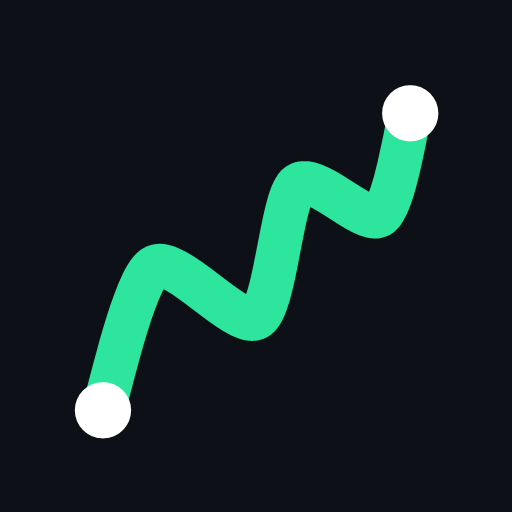
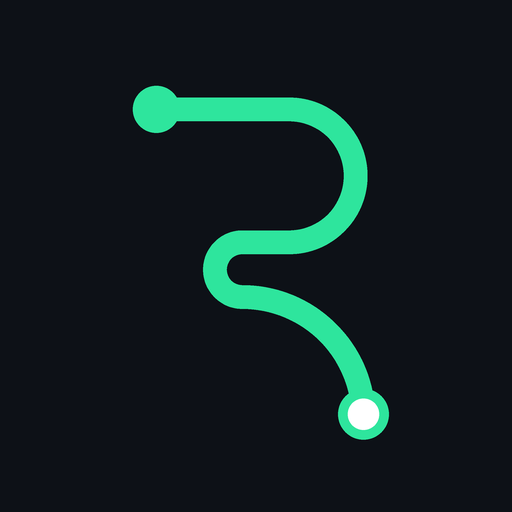
Splash: the R draws centre stage, then becomes the R in Runpath
The mark and the letter are now one element - a zoom is what makes it a mark,
and dropping the zoom makes it a letter. The home-screen icon is generated from
the same geometry.

Changed region(s): [[0.125, 0.1562, 0.875, 0.875]]

diff --git a/style.css b/style.css
@@ -861,32 +861,71 @@ html, body {
 
 /* The whole intro's clock, in one place. */
 :root {
-  --sp-dot:           210ms;
-  --sp-line:         1860ms;
-  --sp-line-delay:    360ms;
-  --sp-end:           210ms;
-  --sp-end-delay:    2160ms;
-  --sp-words:         240ms;
-  --sp-title-delay:  2520ms;
-  --sp-tag-delay:    2640ms;
-  --sp-go:            240ms;
-  --sp-go-delay:     2760ms;
-  --sp-pulse-delay:  3000ms;
+  --sp-dot:           250ms;
+  --sp-line:         1800ms;
+  --sp-line-delay:    350ms;
+  --sp-end:           250ms;
+  --sp-end-delay:    2050ms;
+  --sp-move:          550ms;   /* the R shrinking into place and sliding left */
+  --sp-move-delay:   2450ms;
+  --sp-word:          500ms;   /* "unpath" arriving in the space it left */
+  --sp-word-delay:   2600ms;
+  --sp-words:         450ms;
+  --sp-title-delay:  3150ms;
+  --sp-tag-delay:    3350ms;
+  --sp-go:            350ms;
+  --sp-go-delay:     3650ms;
+  --sp-pulse-delay:  4000ms;
+}
+
+/* The R is drawn big and alone in the middle of the screen, then shrinks into
+   its place as the first letter of the name. It is only ever one element: the
+   zoom is what makes it a mark, and dropping the zoom makes it a letter.
+   --wm-shift is written by the app from the measured width of "unpath". */
+.wordmark {
+  display: flex;
+  align-items: baseline;
+  justify-content: center;
+  gap: 3px;
+  margin-bottom: 26px;
+  transform: translateX(var(--wm-shift, 0px));
+}
+.playing .wordmark {
+  animation: wordmark-settle var(--sp-move) cubic-bezier(0.3, 0, 0.2, 1)
+             var(--sp-move-delay) forwards;
 }
 
 .splash-route {
-  width: 100%;
-  max-width: 168px;
-  height: auto;
-  margin-bottom: 22px;
+  height: 78px;
+  width: auto;
   overflow: visible;          /* the dots are far larger than the frame on the way in */
+  transform: scale(var(--mark-zoom, 2.2));
+  transform-origin: center;
 }
+.playing .splash-route {
+  animation: mark-settle var(--sp-move) cubic-bezier(0.3, 0, 0.2, 1)
+             var(--sp-move-delay) forwards;
+}
+
+.wordmark-rest {
+  font-size: 56px;
+  font-weight: 300;
+  letter-spacing: -0.5px;
+  line-height: 1;
+  opacity: 0;
+}
+.playing .wordmark-rest {
+  animation: fade-in var(--sp-word) ease-out var(--sp-word-delay) forwards;
+}
+
+@keyframes wordmark-settle { to { transform: translateX(0); } }
+@keyframes mark-settle { to { transform: scale(1); } }
 
 /* The dot drops in and settles, the route draws itself over three seconds,
    the far dot lands when it arrives, and only then does the name appear. */
 .route-line {
   stroke: var(--accent);
-  stroke-width: 5;
+  stroke-width: 12;
   stroke-dasharray: var(--route-len, 470);
   stroke-dashoffset: var(--route-len, 470);
 }
@@ -909,8 +948,9 @@ html, body {
 }
 
 .splash-title {
-  font-size: 42px;
-  letter-spacing: -1px;
+  font-size: 30px;
+  font-weight: 500;
+  letter-spacing: -0.5px;
   opacity: 0;
 }
 .playing .splash-title { animation: rise var(--sp-words) ease-out var(--sp-title-delay) forwards; }
@@ -1011,6 +1051,10 @@ html, body {
    still arrives in order, it just fades instead of travelling, and the line
    appears whole rather than drawing itself across the screen. */
 @media (prefers-reduced-motion: reduce) {
+  /* The letter is simply where it belongs from the start; nothing slides or zooms. */
+  .wordmark { transform: none; }
+  .splash-route { transform: none; }
+  .playing .wordmark, .playing .splash-route { animation: none; }
   .playing .route-start { animation: fade-in var(--sp-dot) ease-out forwards; }
   .playing .route-end { animation: fade-in var(--sp-end) ease-out var(--sp-end-delay) forwards; }
   .playing .splash-title { animation: fade-in var(--sp-words) ease-out var(--sp-title-delay) forwards; }

diff --git a/app.js b/app.js
@@ -242,7 +242,7 @@ function afterSplash() {
    a launch screen does not. A long gap between frames is the reveal, and the
    intro starts again from the top when one appears. */
 
-const BUILD = "16:09";           // shown on the splash while this is in doubt
+const BUILD = "16:17";           // shown on the splash while this is in doubt
 const INTRO_SETTLE_MS = 1400;    // Blank held before the sequence starts. iOS keeps
                                  // its launch screen up for about 1.2s while the page
                                  // is already animating behind it; a recording caught
@@ -331,6 +331,16 @@ function startIntro(stage) {
 
 /* The dash pattern has to be the length of the line it is hiding, and the only
    thing that knows that is the path itself. */
+function measureWordmark() {
+  const mark = document.querySelector("#wordmark");
+  const rest = document.querySelector("#wordmark-rest");
+  if (!mark || !rest) return;
+  /* The row is centred with "unpath" in it, so the R sits half a word to the
+     left of centre. Push the row right by that half to open on a centred R. */
+  const half = Math.round((rest.offsetWidth + 3) / 2);
+  mark.style.setProperty("--wm-shift", half + "px");
+}
+
 function measureRoute() {
   const path = document.querySelector(".route-line");
   if (!path || !path.getTotalLength) return;
@@ -347,6 +357,10 @@ function runSplash() {
   show("splash");
 
   measureRoute();
+  measureWordmark();
+  if (document.fonts && document.fonts.ready) {
+    document.fonts.ready.then(measureWordmark);   // the word's width settles late
+  }
 
   const screen = document.querySelector("#screen-splash");
   const stage = splashStage();

diff --git a/index.html b/index.html
@@ -51,13 +51,16 @@
              square to the direction the line is already travelling - so the
              whole letter is one continuous curve with no corners in it.
              A dot marks each end of the run. -->
-        <svg class="splash-route" viewBox="0 0 130 182" aria-hidden="true">
-          <path class="route-line"
-                d="M14 18 H82 A34 34 0 0 1 82 86 H58 A14 14 0 0 0 58 114 A62 62 0 0 1 120 174"
-                fill="none" stroke-linecap="round" stroke-linejoin="round"/>
-          <circle class="route-start" cx="14" cy="18" r="6"/>
-          <circle class="route-end" cx="120" cy="174" r="7"/>
-        </svg>
+        <div class="wordmark" id="wordmark">
+          <svg class="splash-route" viewBox="0 0 130 186" aria-hidden="true">
+            <path class="route-line"
+                  d="M14 18 H82 A34 34 0 0 1 82 86 H58 A14 14 0 0 0 58 114 A62 62 0 0 1 120 174"
+                  fill="none" stroke-linecap="round" stroke-linejoin="round"/>
+            <circle class="route-start" cx="14" cy="18" r="12"/>
+            <circle class="route-end" cx="120" cy="174" r="13"/>
+          </svg>
+          <span class="wordmark-rest" id="wordmark-rest">unpath</span>
+        </div>
 
         <h1 class="splash-title" id="splash-title">RunPath<span class="dot">.</span></h1>
         <p class="splash-tagline" id="splash-tagline">Track it. Map it. Share it.</p>

diff --git a/sw.js b/sw.js
@@ -1,4 +1,4 @@
-const CACHE = "runpath-v24";
+const CACHE = "runpath-v25";
 const CORE = [
   "./",
   "./index.html",
